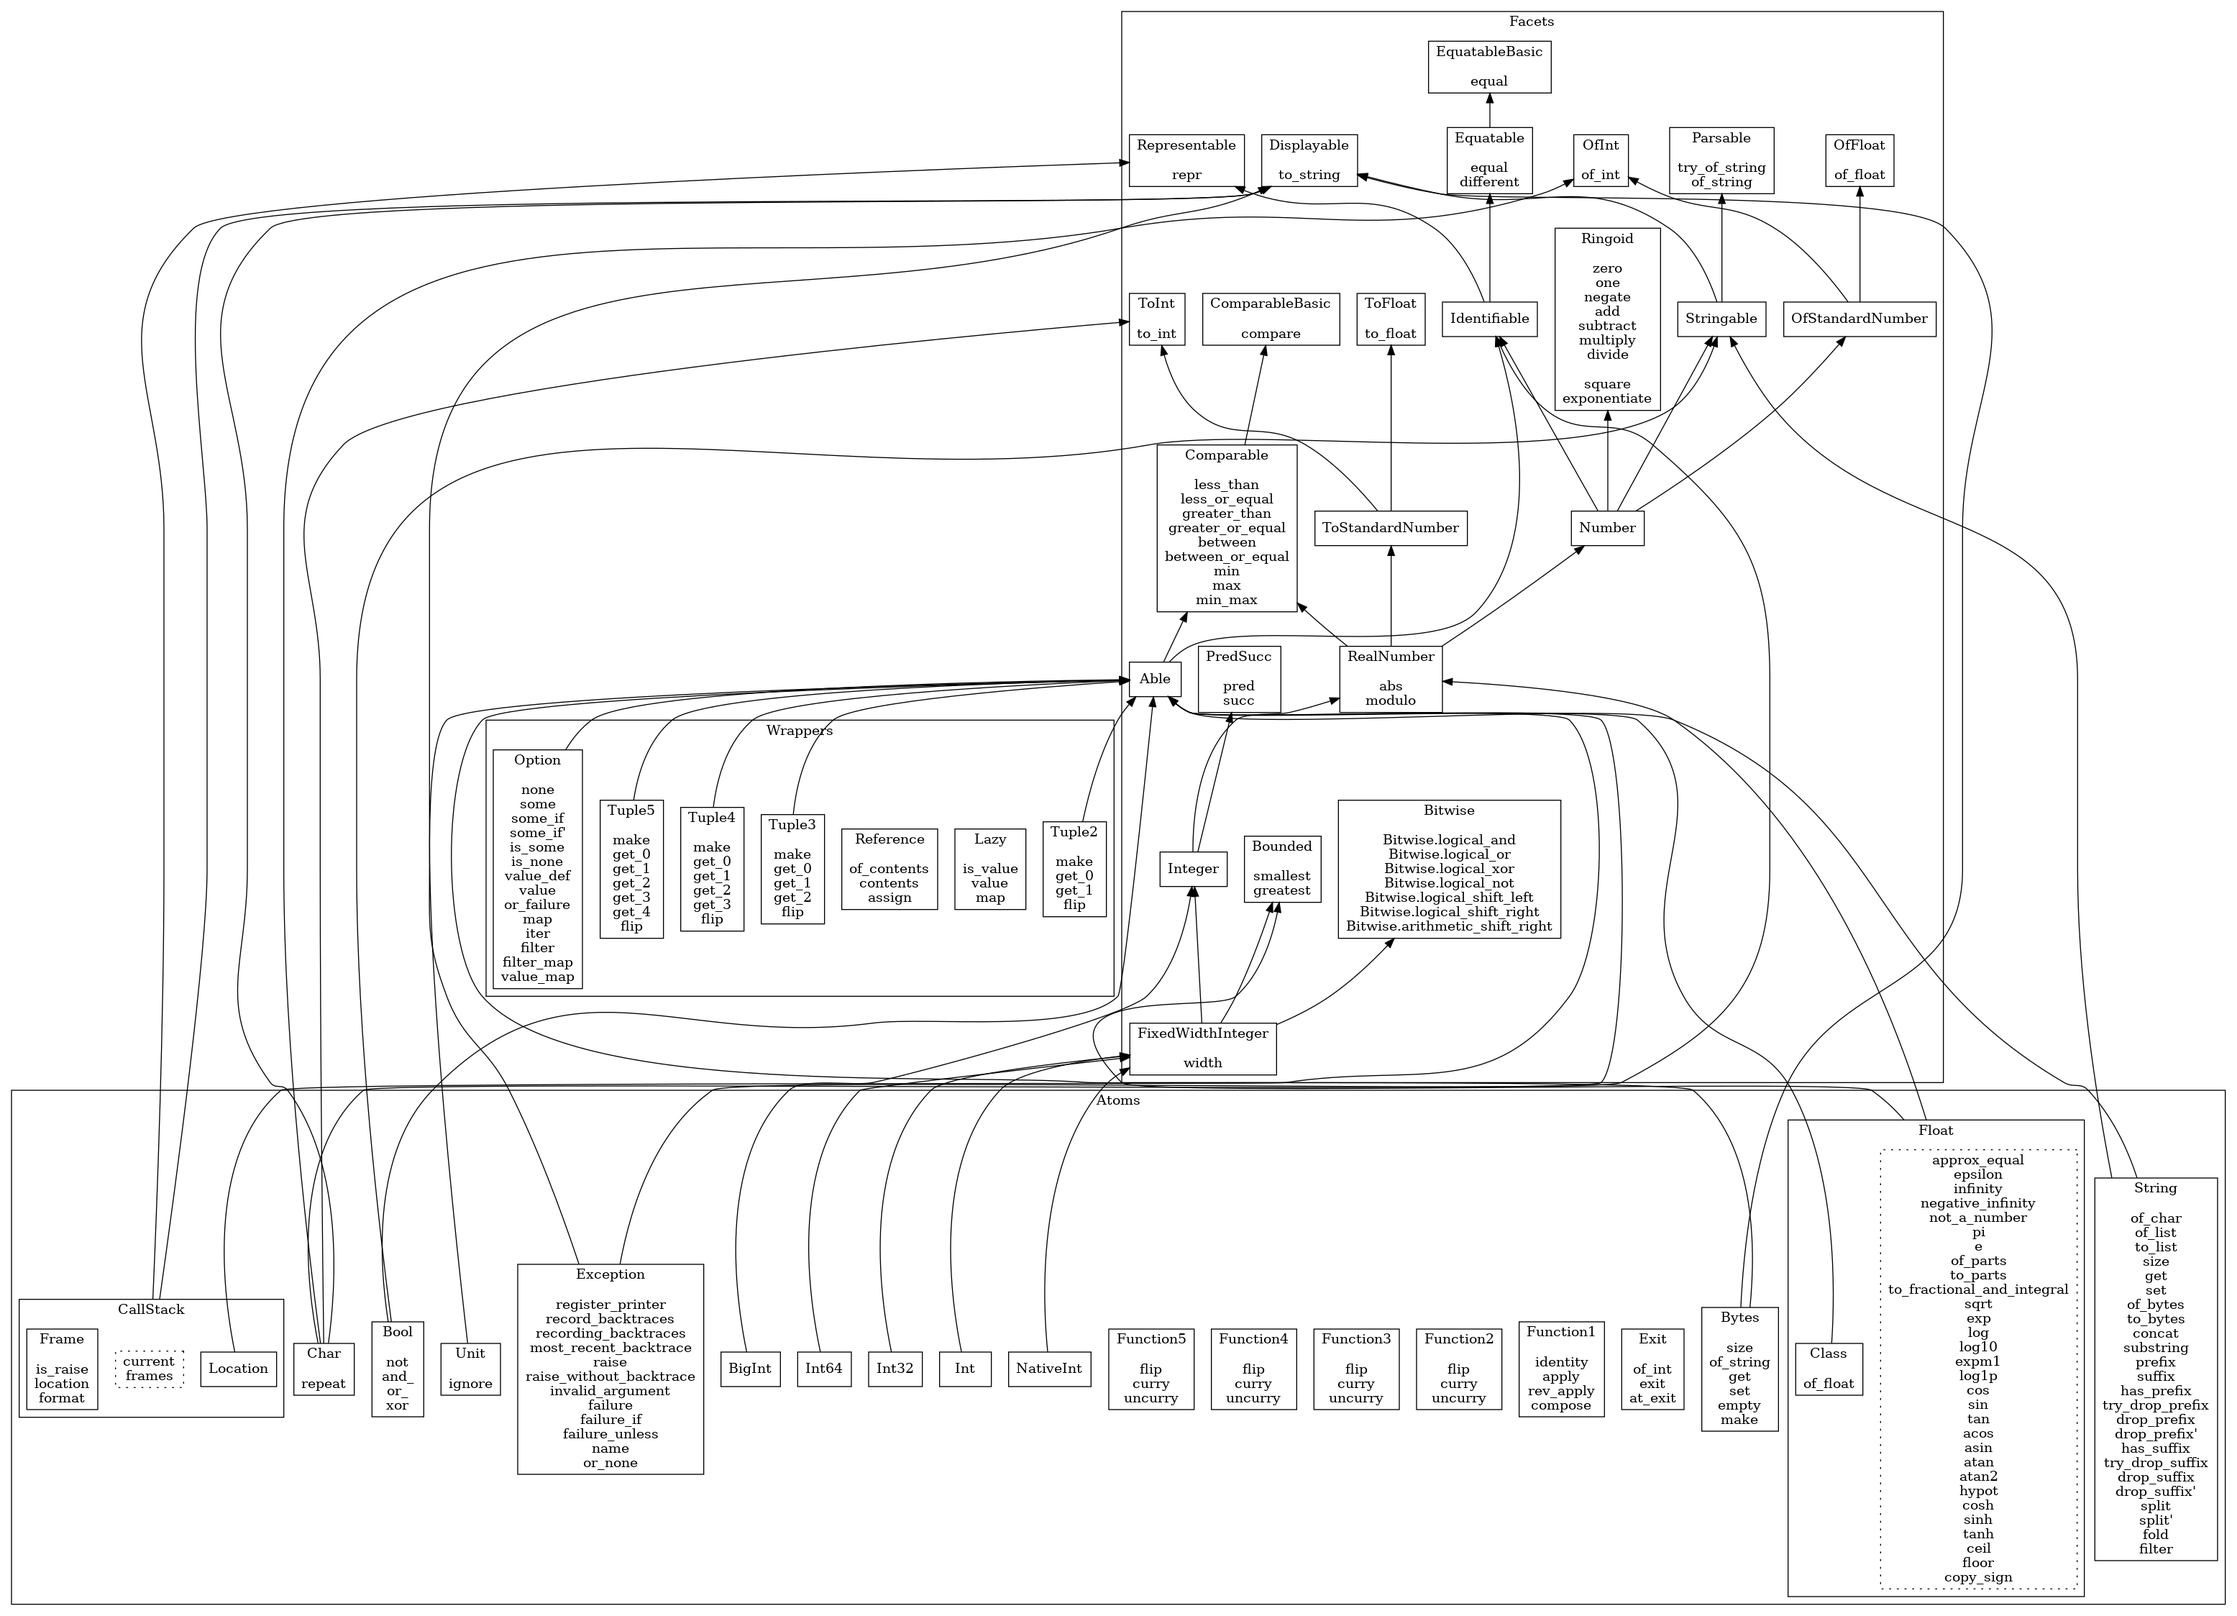
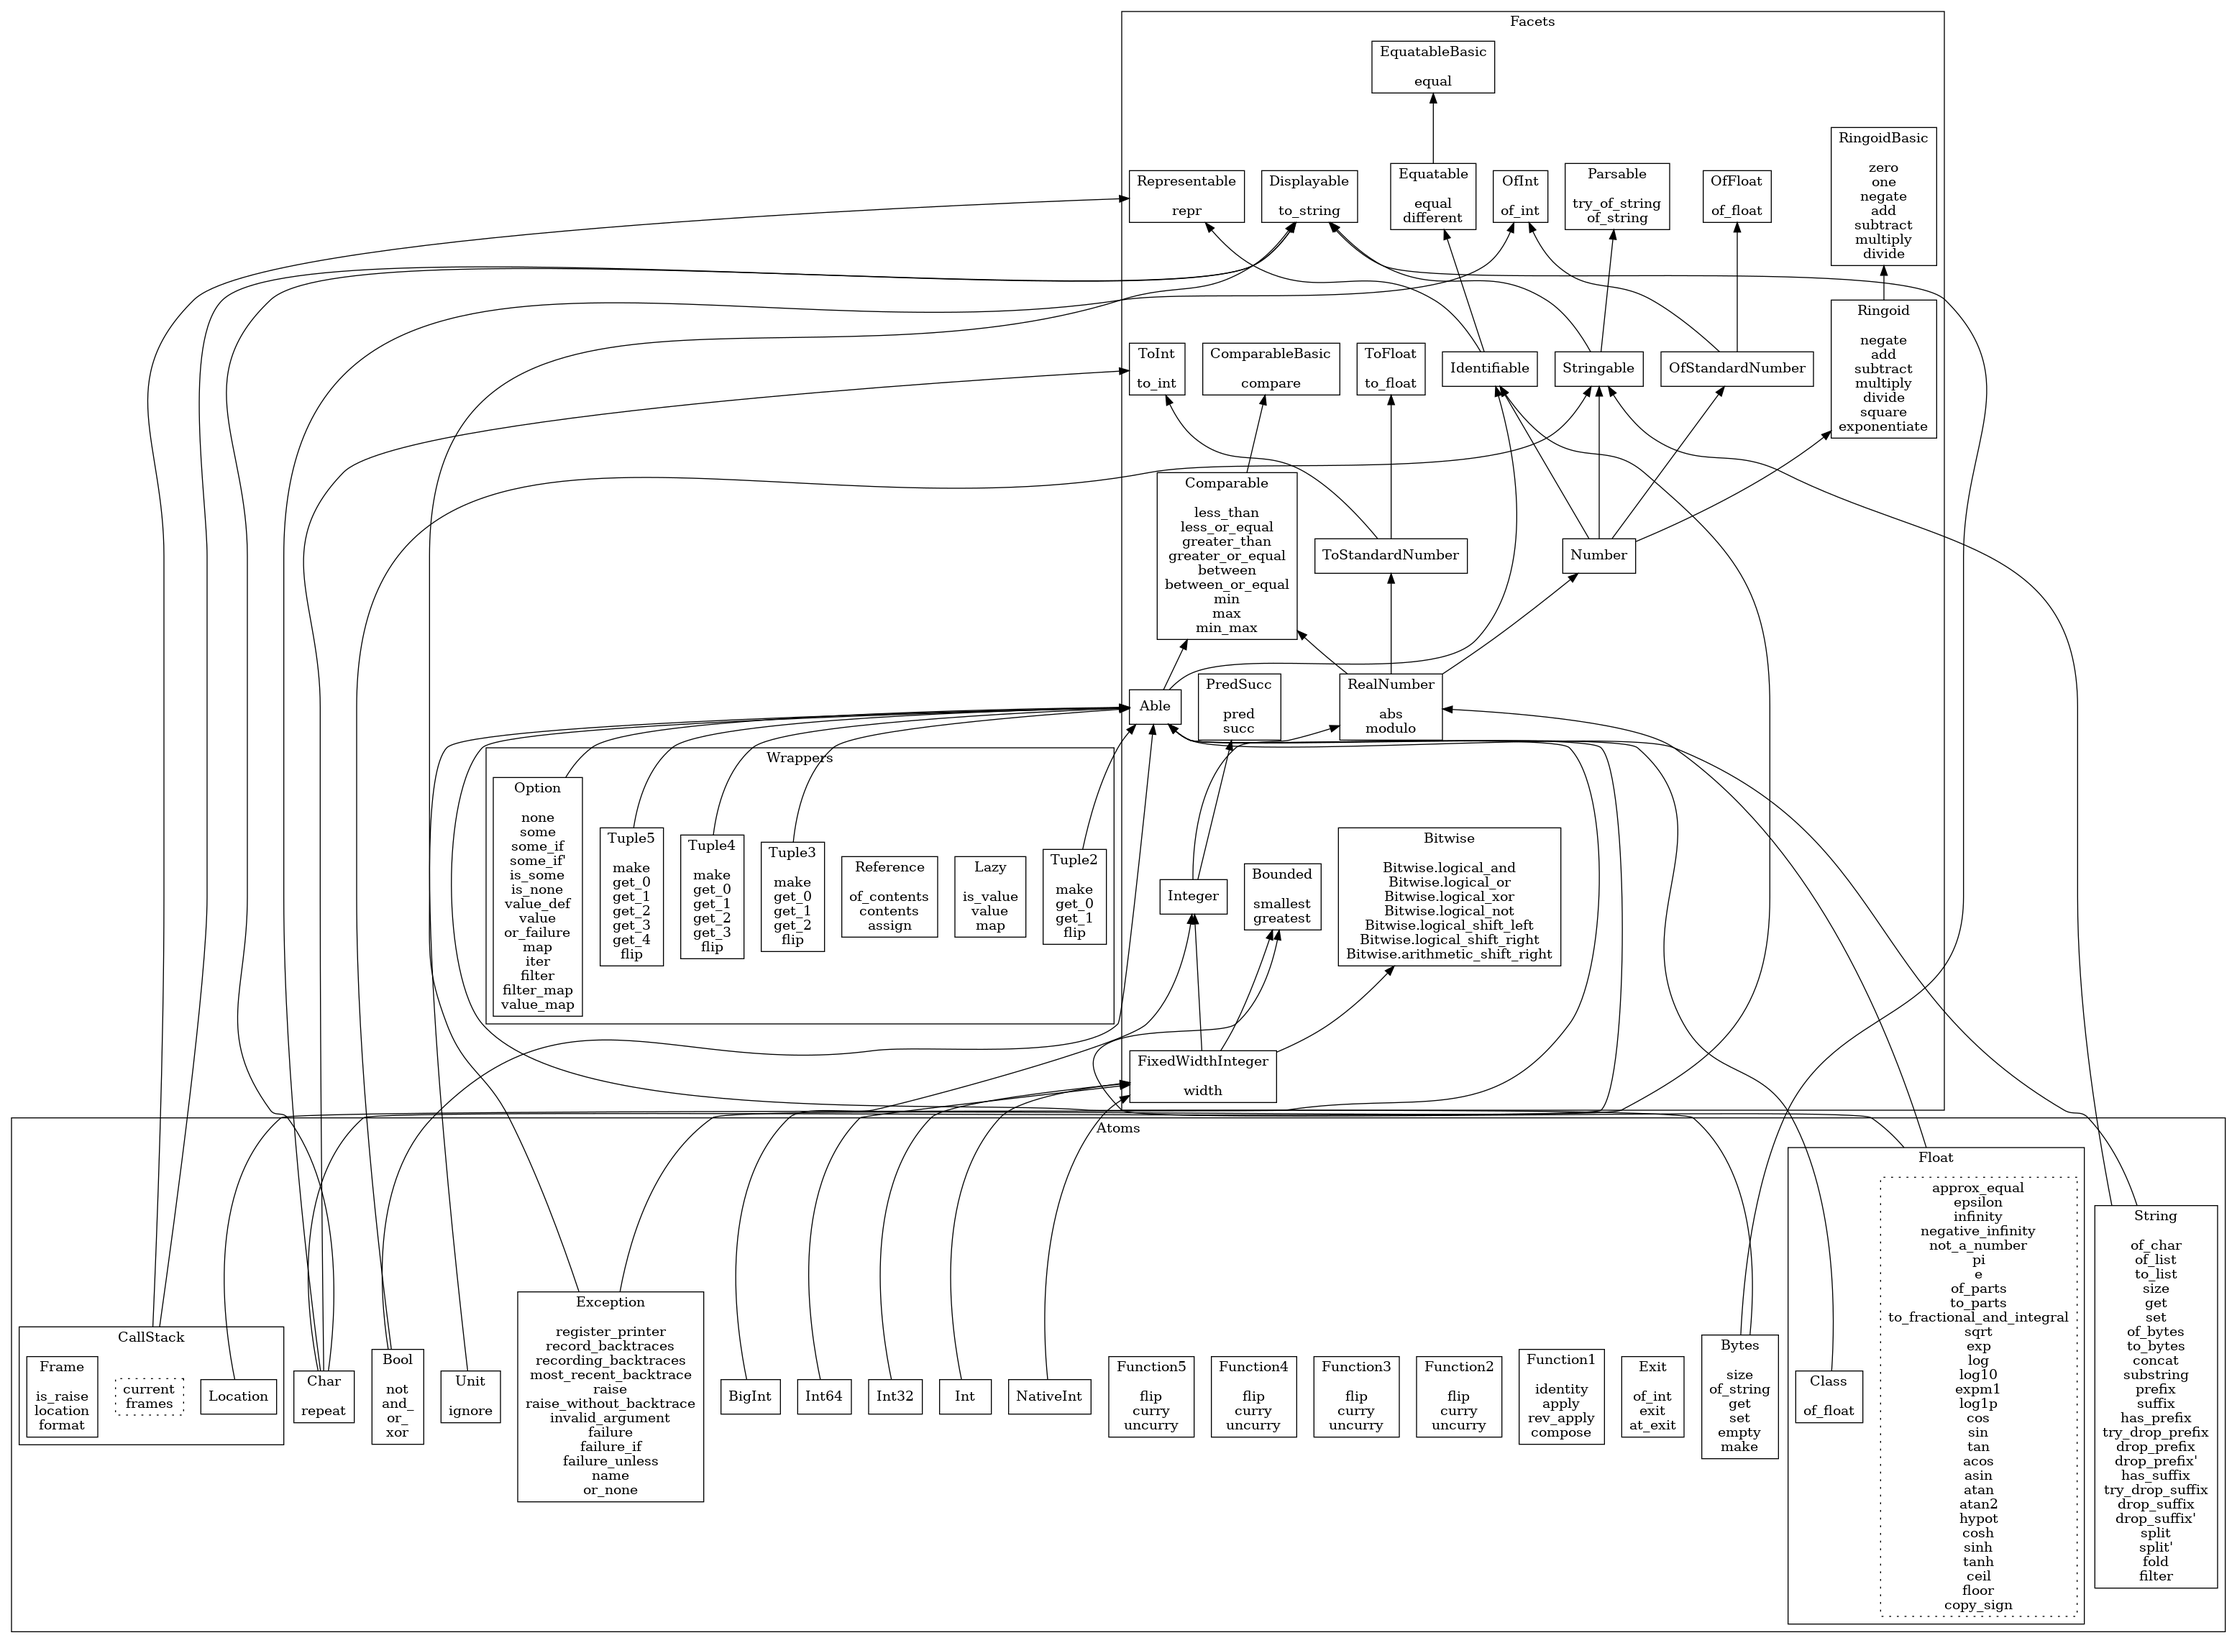
Extract facet RingoidBasic from Ringoid

diff --git a/geni/__main__.py b/geni/__main__.py
@@ -316,18 +316,17 @@ comparable = facet(
     test_requirements=[equatable_basic, representable],
 )
 
-ringoid = facet(
-    "Ringoid",
+ringoid_basic = facet(
+    "RingoidBasic",
     variadic=False,
     values=[
         val("zero", t),
         val("one", t),
-        # val("posate", t, t, operator="~+"),
-        val("negate", t, t, operator="~-"),
-        val("add", t, t, t, operator="+"),
-        val("subtract", t, t, t, operator="-"),
-        val("multiply", t, t, t, operator="*"),
-        val("divide", t, t, t, operator="/"),
+        val("negate", t, t),
+        val("add", t, t, t),
+        val("subtract", t, t, t),
+        val("multiply", t, t, t),
+        val("divide", t, t, t),
     ],
     extensions=[
         ext(
@@ -335,14 +334,39 @@ ringoid = facet(
             members=["subtract"],
             requirements=["negate", "add"],
         ),
+    ],
+    test_examples=[
+        val("additions", f"({t} * {t} * {t}) list"),
+        val("negations", f"({t} * {t}) list"),
+        val("multiplications", f"({t} * {t} * {t}) list"),
+        val("divisions", f"({t} * {t} * {t}) list"),
+    ],
+    test_requirements=[equatable_basic, representable],
+)
+
+ringoid = facet(
+    "Ringoid",
+    bases=[ringoid_basic],
+    values=[
+        # @todo Don't repeat these values, just add the operators
+        # val("posate", t, t, operator="~+"),
+        val("negate", t, t, operator="~-"),
+        val("add", t, t, t, operator="+"),
+        val("subtract", t, t, t, operator="-"),
+        val("multiply", t, t, t, operator="*"),
+        val("divide", t, t, t, operator="/"),
+        val("square", t, t),
+        val("exponentiate", t, "int", t, operator="**")
+    ],
+    extensions=[
         ext(
             "Square",
-            members=[val("square", t, t)],
+            members=["square"],
             requirements=["multiply"],
         ),
         ext(
             "Exponentiate",
-            members=[val("exponentiate", t, "int", t, operator="**")],
+            members=["exponentiate"],
             requirements=[
                 "one",
                 "square",
@@ -352,10 +376,6 @@ ringoid = facet(
         ),
     ],
     test_examples=[
-        val("additions", f"({t} * {t} * {t}) list"),
-        val("negations", f"({t} * {t}) list"),
-        val("multiplications", f"({t} * {t} * {t}) list"),
-        val("divisions", f"({t} * {t} * {t}) list"),
         val("exponentiations", f"({t} * int * {t}) list"),
     ],
     test_requirements=[equatable_basic, representable],
@@ -925,7 +945,7 @@ reference = wrapper(
             end
         """).splitlines(),
         textwrap.dedent("""\
-            module SpecializeRingoidOperators(A: Facets.Ringoid.Basic.S0): sig
+            module SpecializeRingoidOperators(A: Facets.RingoidBasic.S0): sig
               type nonrec t = A.t t
               val (=+): t -> A.t -> unit
               val (=-): t -> A.t -> unit
@@ -934,7 +954,7 @@ reference = wrapper(
             end
         """).splitlines(),
         textwrap.dedent("""\
-            module SpecializeRingoid(A: Facets.Ringoid.Basic.S0): sig
+            module SpecializeRingoid(A: Facets.RingoidBasic.S0): sig
               type nonrec t = A.t t
               module O: module type of SpecializeRingoidOperators(A) with type t := t
             end
